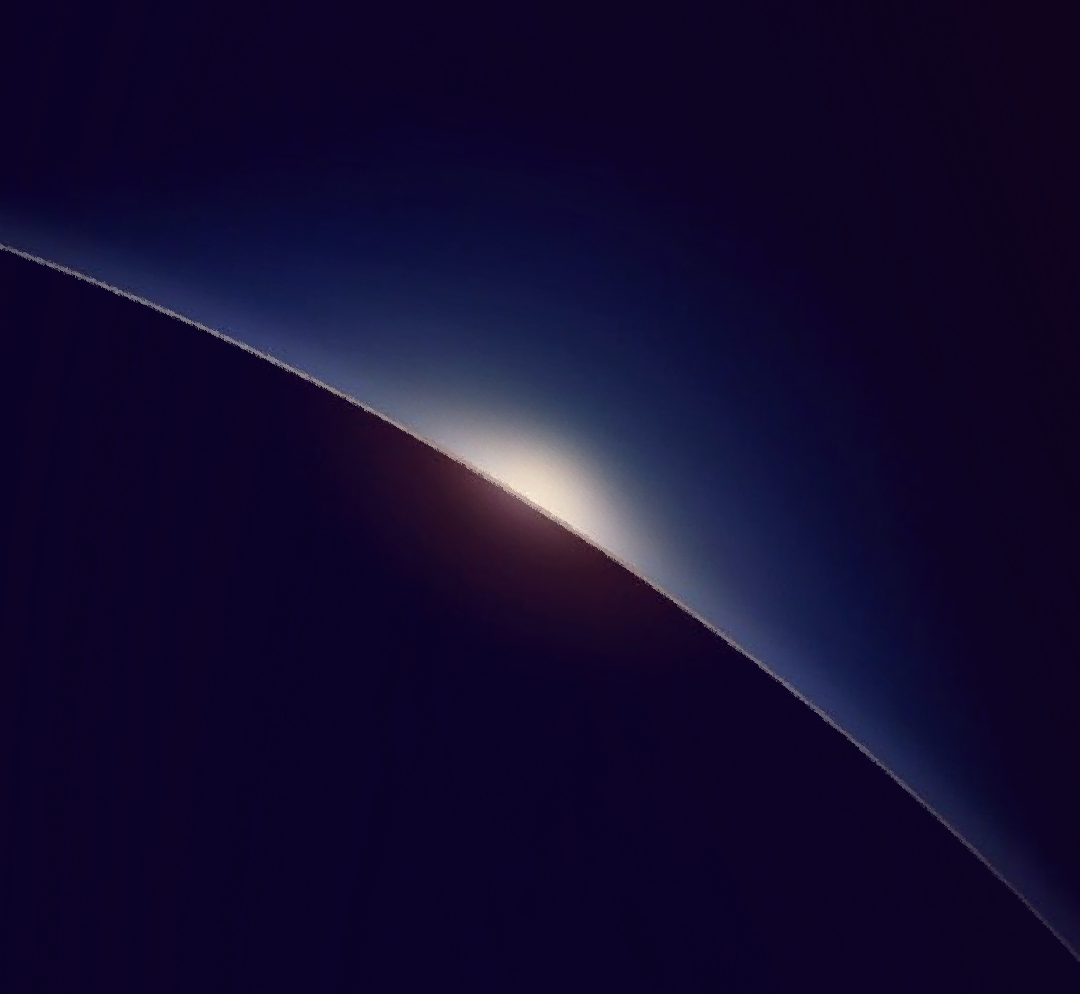
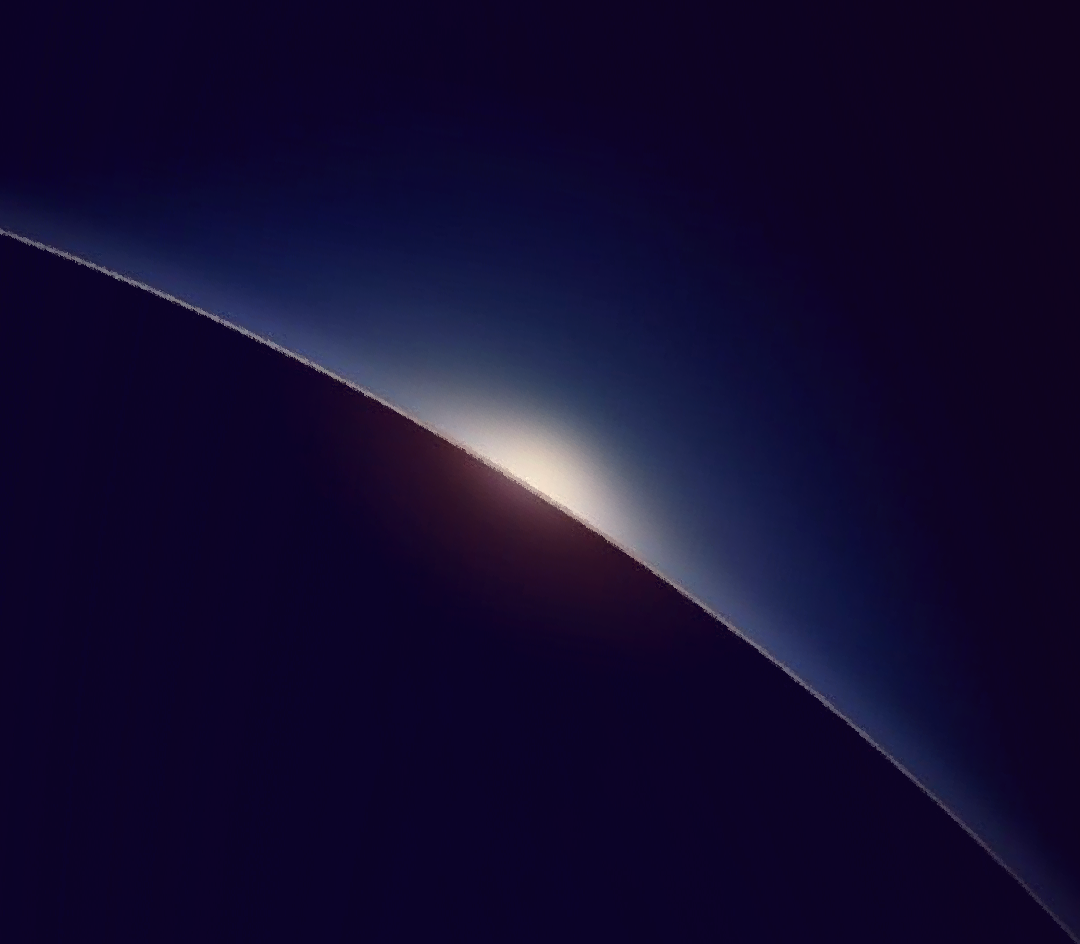
Add investment options section with image and update styles for improved layout

diff --git a/assets/css/style.css b/assets/css/style.css
@@ -176,8 +176,9 @@ body {
 
 /* Why Choose Us Start */
 .why-choose-us{
-    padding: 1rem 5% 21rem 5%;
-    background-color: #0c031b;
+    padding: 1rem 5% 0 5%;
+    /* background-color: #0c031b; */
+    background: linear-gradient(to bottom, #0c031b 0%, #0d0325 110%);
     position: relative;
 }
 .why-choose-us h2{
@@ -238,7 +239,7 @@ body {
 /* For small screens */
 @media screen and (max-width: 767px) {
     .why-choose-us{
-        padding: 1rem 1rem 6rem 1rem;
+        padding: 1rem 1rem 0 1rem;
     }
     .why-choose-us h2{
         font-size: calc(1.2rem + 0.5vw);
@@ -275,3 +276,9 @@ body {
     }
 }
 /* Why Choose Us End */
+
+/* Investment Options Start */
+.investment img{
+    width: 100%;
+}
+/* Investment Options End */

diff --git a/index.html b/index.html
@@ -98,6 +98,12 @@
         </div>
     </section> 
     <!-- Why Choose Us End -->
+
+    <!-- Investment Options Start -->
+    <section class="investment">
+        <img src="assets/images/rising-effect.png" alt="image">
+    </section> 
+    <!-- Investment Options End -->
     
 
     <!-- -------------------------------------------------------------------------------------------------------------------------------- -->
